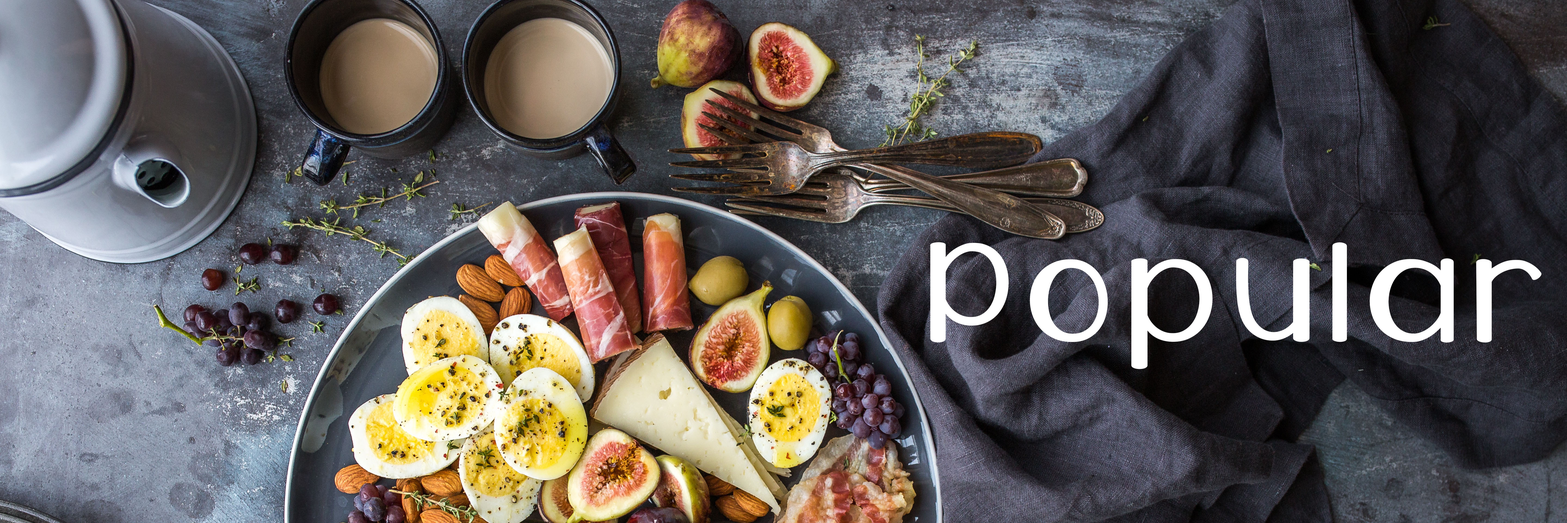
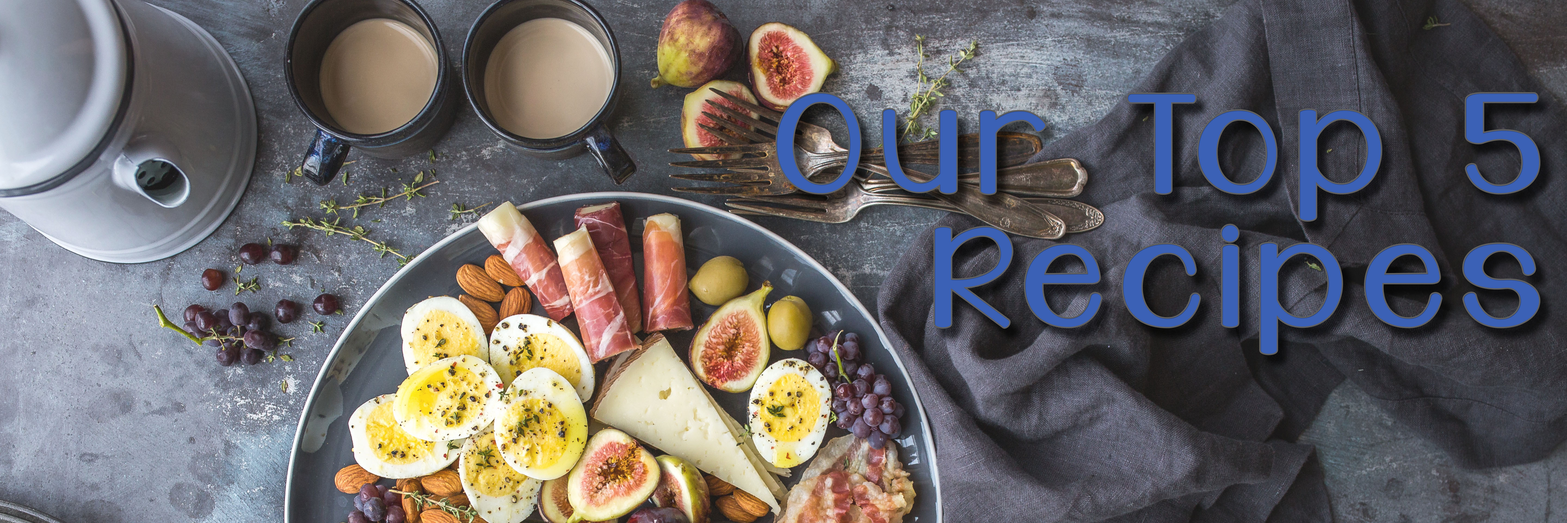
updated files for all pages and headers

diff --git a/app.js b/app.js
@@ -74,12 +74,13 @@ app.controller('displayFood', function($scope, recipeStore, $http){
     method: 'GET',
 
     url:
-     "testInfo.json"
-    // 'https://spoonacular-recipe-food-nutrition-v1.p.mashape.com/recipes/findByIngredients' +
-    // '?fillIngredients=false&ingredients=' + encodeURIComponent(foodSearchString)  +'&limitLicense=false&number=5&ranking=1',
-    // headers: {
-     // 'X-Mashape-Key': "Qajqo1J4xdmshNRgkEbboXTYJFJYp19ne8jjsnq96e872bitro"
-      // }
+
+    'https://spoonacular-recipe-food-nutrition-v1.p.mashape.com/recipes/findByIngredients' +
+    '?fillIngredients=false&ingredients=' + encodeURIComponent(foodSearchString)  +'&limitLicense=false&number=5&ranking=1',
+    headers: {
+     'X-Mashape-Key': "Qajqo1J4xdmshNRgkEbboXTYJFJYp19ne8jjsnq96e872bitro"
+      }
+  
   }).then(function successCallback(response) {
 
     document.body.className = 'ok';
@@ -117,9 +118,9 @@ app.controller('displayFood', function($scope, recipeStore, $http){
   function getRecipe(recipeId) {
     $http({
       method: "GET",
-       // url: 'https://spoonacular-recipe-food-nutrition-v1.p.mashape.com/recipes/' + recipeId + '/information',
+       url: 'https://spoonacular-recipe-food-nutrition-v1.p.mashape.com/recipes/' + recipeId + '/information',
       headers: {
-        // 'X-Mashape-Key': "Qajqo1J4xdmshNRgkEbboXTYJFJYp19ne8jjsnq96e872bitro"
+        'X-Mashape-Key': "Qajqo1J4xdmshNRgkEbboXTYJFJYp19ne8jjsnq96e872bitro"
         }
     }).then(function successCallback(recipeJson) {
       var sourceUrl = recipeJson.data.sourceUrl;
@@ -141,11 +142,11 @@ app.controller('displayJoke', function($scope, $http){
   $http({
     method: 'GET',
     url:
-    "testInfo.json"
-  // 'https://spoonacular-recipe-food-nutrition-v1.p.mashape.com/food/jokes/random',
+  'https://spoonacular-recipe-food-nutrition-v1.p.mashape.com/food/jokes/random',
   headers: {
-   // 'X-Mashape-Key': "mB6qAXcS2dmshYvx3CSdxbUsZFbbp1qpWv1jsnGXmktEnkbIl4"
+   'X-Mashape-Key': "Qajqo1J4xdmshNRgkEbboXTYJFJYp19ne8jjsnq96e872bitro"
      }
+
 }).then(function successCallback(response) {
   document.body.className = 'ok';
   $scope.joke = response.data.text;
@@ -162,11 +163,12 @@ app.controller('displayRecipes', function($scope, $http){
   $http({
     method: 'GET',
     url:
-   "testInfo.json"
-  // 'https://spoonacular-recipe-food-nutrition-v1.p.mashape.com/recipes/random?limitLicense=false&number=5',
+
+  'https://spoonacular-recipe-food-nutrition-v1.p.mashape.com/recipes/random?limitLicense=false&number=5',
   headers: {
-   // 'X-Mashape-Key': "mB6qAXcS2dmshYvx3CSdxbUsZFbbp1qpWv1jsnGXmktEnkbIl4"
+   'X-Mashape-Key': "Qajqo1J4xdmshNRgkEbboXTYJFJYp19ne8jjsnq96e872bitro"
     }
+
  }).then(function successCallback(response) {
   document.body.className = 'ok';
   $scope.recipes = response.data.recipes.map(function(recipe){

diff --git a/views/styles.css b/views/styles.css
@@ -11,7 +11,12 @@ body {
 
 a{
     text-decoration: none;
-    
+    color: #606060;
+    margin-right: 10px;    
+}
+
+a:hover{
+    color: #7c7c7c;
 }
 
 .navigation {
@@ -23,16 +28,6 @@ a{
     text-align: center;
     font-size: 2vw;
     padding-bottom: 16px;
-}
-
-.navigation a{
-    text-decoration: none;
-    color: #606060;
-    margin-right: 10px;
-}
-
-.navigation a:hover{
-    color: #7c7c7c;
 }
 
 .icon {

diff --git a/views/popular.html b/views/popular.html
@@ -7,11 +7,12 @@
 		<div id="popRecipe">
 
 			<div class="leftColumn">
+				<a href="{{recipe.link}}">
 				<img class="popImage" ng-src="{{recipe.image}}"/>
 			</div>
 
 			<div class="rightColumn">
-				<h1>{{recipe.title}}</h1>
+				<h1>{{recipe.title}}</h1></a>
 				<h3>Total Prep &amp; Cook Time: <br> 
 				 {{recipe.time}} minutes </h3>
 			</div>
